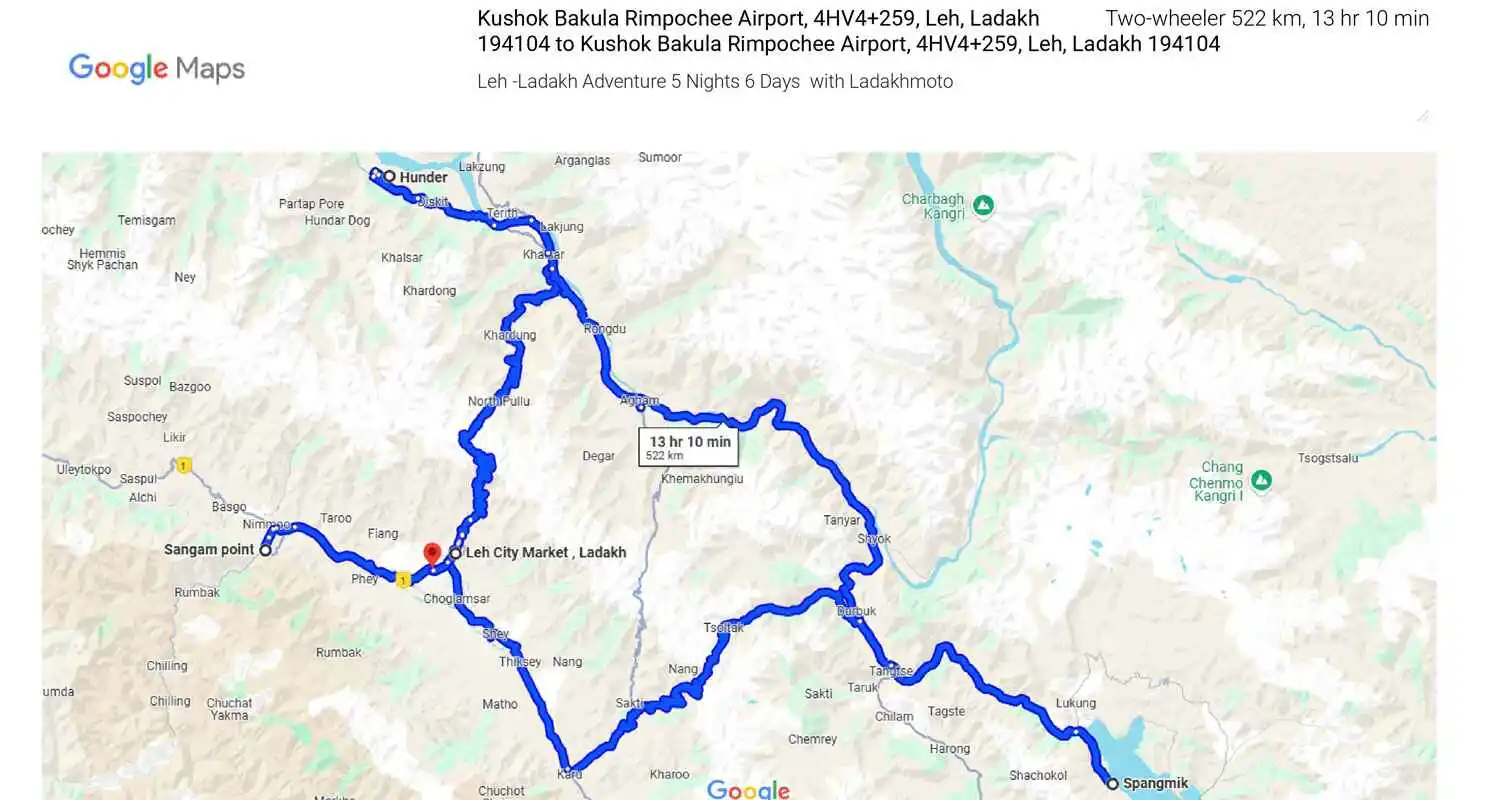
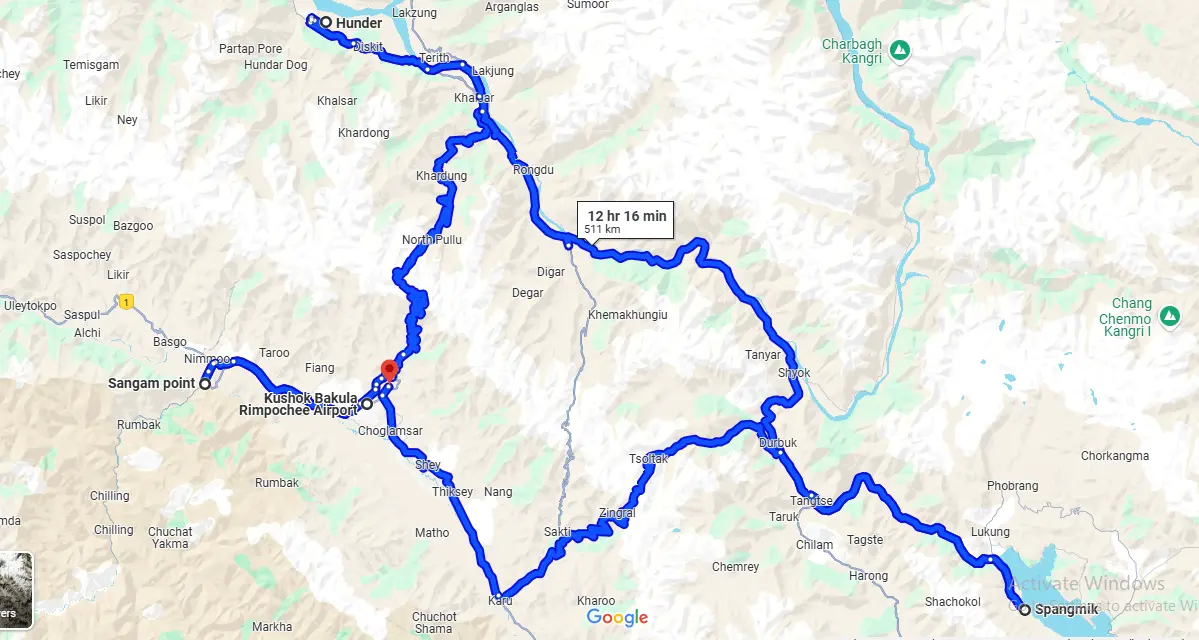
Added leh ladakh adventure ocerview map

diff --git a/src/components/bike-tours/leh-ladakh-adventure/overview/overview.tsx b/src/components/bike-tours/leh-ladakh-adventure/overview/overview.tsx
@@ -2,6 +2,7 @@ import { component$, useStylesScoped$ } from '@builder.io/qwik';
 import styles from './overview.css?inline';
 // import ItineraryImage from '~/components/itinerary-image';
 import OverviewIcons from '~/components/overview-icons/overview-icons';
+import ItineraryImage from '~/components/itinerary-image';
 
 export default component$(() => {
     useStylesScoped$(styles);
@@ -17,10 +18,9 @@ export default component$(() => {
                     <OverviewIcons highestAltitude="18380 ft" distance="550 km" duration="5N/6D" lodging="Hotel/Camp" meal="BF/Dinner" />
                 </div>
 
-                {/* <div class="col-12 col-lg-6 mt-3 mb-3 d-flex align-items-center justify-content-center">
-                    <iframe title="Tour Route Map" src="https://www.google.com/maps/embed?pb=!1m46!1m12!1m3!1d397430.2340274567!2d77.56581808538132!3d34.24404689267471!2m3!1f0!2f0!3f0!3m2!1i1024!2i768!4f13.1!4m31!3e0!4m5!1s0x38fdebcd12c62837%3A0x4cf8ccb43b913de8!2sLeh%20City%20Market%20%2C%20Ladakh%2C%20Leh!3m2!1d34.1622742!2d77.58558839999999!4m5!1s0x38fd99d503a96917%3A0x966547e17b6bdda4!2sSangam%20point%2C%20Srinagar%20-%20Leh%20Highway%2C%20Leh!3m2!1d34.1653744!2d77.332813!4m5!1s0x38fc4c4e89860449%3A0xb2a592c28540d7ff!2sHunder!3m2!1d34.5752836!2d77.4988753!4m5!1s0x3901d9b11695972d%3A0x86a63221606d7af3!2sSpangmik!3m2!1d33.9078735!2d78.45956439999999!4m5!1s0x38fdebcd12c62837%3A0x4cf8ccb43b913de8!2sLeh%20City%20Market%20%2C%20Ladakh%2C%20Leh!3m2!1d34.1622742!2d77.58558839999999!5e1!3m2!1sen!2sin!4v1736942781910!5m2!1sen!2sin" 
-                        width="600" height="450" style="border:0;" loading="lazy" referrerPolicy="no-referrer-when-downgrade"></iframe>
-                </div> */}
+                <div class="col-12 col-lg-6 mt-3 mb-3 d-flex align-items-center justify-content-center">
+                    <ItineraryImage src="/img/bike-tours/leh-ladakh-adventure/leh-ladakh-adventure-overview.webp" alt="Overview Image Of The Leh Zanskar Leh Bike Tour" />
+                </div>
             </div>
 
             {/* Desktop Screen */}
@@ -29,10 +29,9 @@ export default component$(() => {
                     <OverviewIcons highestAltitude="18380 ft" distance="550 km" duration="5N/6D" lodging="Hotel/Camp" meal="BF/Dinner" />
                 </div>
 
-                {/* <div class="col-12 col-lg-12 mt-3 mb-3 d-flex align-items-center justify-content-center">
-                    <iframe title="Tour Route Map" src="https://www.google.com/maps/embed?pb=!1m46!1m12!1m3!1d397430.2340274567!2d77.56581808538132!3d34.24404689267471!2m3!1f0!2f0!3f0!3m2!1i1024!2i768!4f13.1!4m31!3e0!4m5!1s0x38fdebcd12c62837%3A0x4cf8ccb43b913de8!2sLeh%20City%20Market%20%2C%20Ladakh%2C%20Leh!3m2!1d34.1622742!2d77.58558839999999!4m5!1s0x38fd99d503a96917%3A0x966547e17b6bdda4!2sSangam%20point%2C%20Srinagar%20-%20Leh%20Highway%2C%20Leh!3m2!1d34.1653744!2d77.332813!4m5!1s0x38fc4c4e89860449%3A0xb2a592c28540d7ff!2sHunder!3m2!1d34.5752836!2d77.4988753!4m5!1s0x3901d9b11695972d%3A0x86a63221606d7af3!2sSpangmik!3m2!1d33.9078735!2d78.45956439999999!4m5!1s0x38fdebcd12c62837%3A0x4cf8ccb43b913de8!2sLeh%20City%20Market%20%2C%20Ladakh%2C%20Leh!3m2!1d34.1622742!2d77.58558839999999!5e1!3m2!1sen!2sin!4v1736942781910!5m2!1sen!2sin" 
-                        width="850" height="350" style="border:0;" loading="lazy" referrerPolicy="no-referrer-when-downgrade"></iframe>
-                </div> */}
+                <div class="col-12 col-lg-12 mt-3 mb-3 d-flex align-items-center justify-content-center">
+                    <ItineraryImage size="desktop" src="/img/bike-tours/leh-ladakh-adventure/leh-ladakh-adventure-overview.webp" alt="Overview Image Of The Leh Zanskar Leh Bike Tour" />
+                </div>
             </div>
             
             <p>

diff --git a/src/components/enquiry-popup/enquiry-popup.css b/src/components/enquiry-popup/enquiry-popup.css
@@ -138,7 +138,7 @@
     border: none;
     border-radius: 5px;
     color: #fff;
-    padding: 5px 22px;
+    padding: 7px 29px;
     height: 40px;
     margin-top: 10px;
     float: left;
